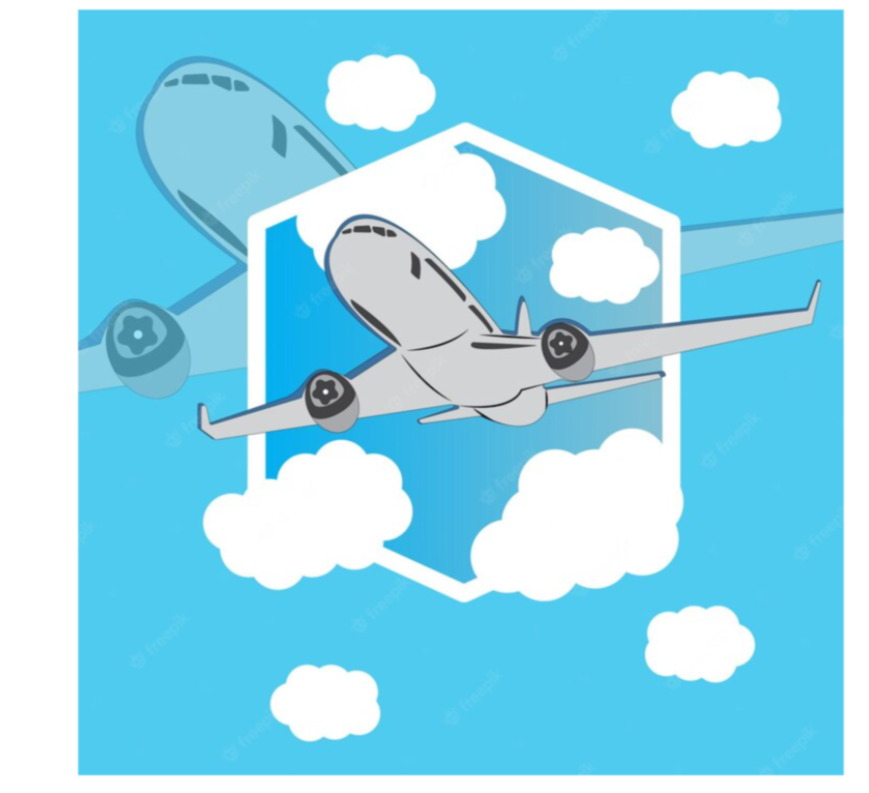
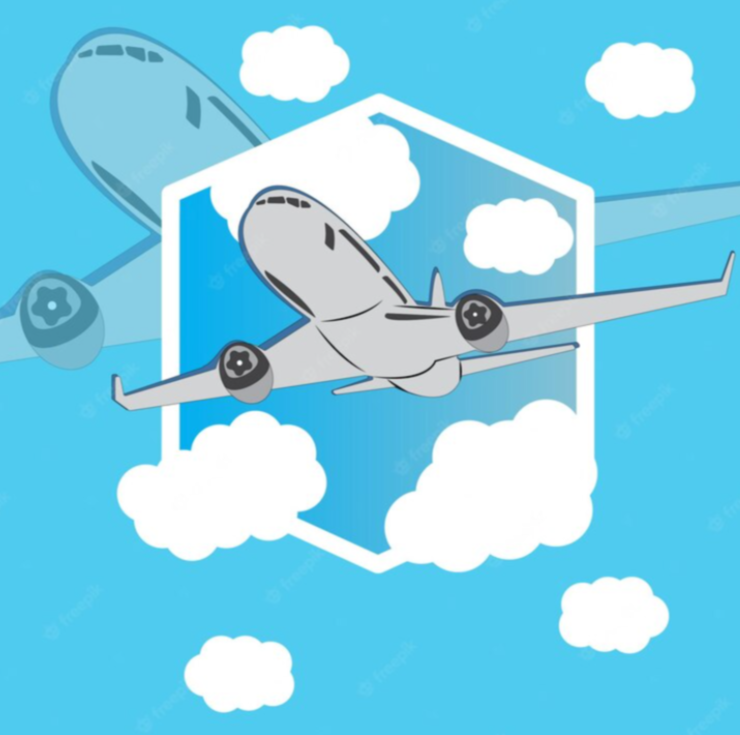
diseño

diff --git a/Vistas/Vendedor.xaml b/Vistas/Vendedor.xaml
@@ -7,9 +7,12 @@
         xmlns:local="clr-namespace:ProyectotTUSBOLETOS.Vistas"
         mc:Ignorable="d"
         Title="Vendedor" Height="450" Width="800">
-    <Grid Background="#FFC1C9C1">
+    <Grid>
+        <Grid.Background>
+            <ImageBrush ImageSource="C:\Users\luzac\source\repos\ProyectotTUSBOLETOS\Img\avion.png" AlignmentY="Top" AlignmentX="Center"/>
+        </Grid.Background>
         <Label x:Name="lblBienvenida" Content="Bienvenido Vendedor" HorizontalAlignment="Left" Margin="180,23,0,0" VerticalAlignment="Top" FontSize="50"/>
-        <DataGrid x:Name="Eventos"  AutoGenerateColumns="False" CanUserAddRows="False" IsReadOnly="True" ColumnWidth="*" IsSynchronizedWithCurrentItem="True" Margin="175,110,52,76" Background="#FFB4BDD6">
+        <DataGrid x:Name="Eventos"  AutoGenerateColumns="False" CanUserAddRows="False" IsReadOnly="True" ColumnWidth="*" IsSynchronizedWithCurrentItem="True" Margin="175,110,52,76" Background="#FF83D4EF">
             <DataGrid.Columns>
                 <DataGridTextColumn Header="Id" Binding="{Binding PkEvento}" />
                 <DataGridTextColumn Header="Nombre" Binding="{Binding Nombre}" />
@@ -32,8 +35,8 @@
         <TextBox x:Name="txtPrecio" HorizontalAlignment="Left" Margin="18,179,0,0" TextWrapping="Wrap" VerticalAlignment="Top" Width="120" IsEnabled="False"/>
         <Label x:Name="lblCantidad" Content="Cantidad" HorizontalAlignment="Left" Margin="18,104,0,0" VerticalAlignment="Top" FontSize="14" FontWeight="Bold"/>
         <Label x:Name="lblPrecio" Content="Precio" HorizontalAlignment="Left" Margin="18,153,0,0" VerticalAlignment="Top" FontWeight="Bold" FontSize="14"/>
-        <Button x:Name="btnCalcular" Content="Calcular" HorizontalAlignment="Left" Margin="10,221,0,0" VerticalAlignment="Top" Width="60" Click="btnCalcular_Click" Background="#FF5BD07B" BorderBrush="#FF2B2A2A" FontWeight="Bold" FontSize="14" Height="28"/>
-        <Button x:Name="btnEmitir" Content="Ordenar" HorizontalAlignment="Left" Margin="81,221,0,0" VerticalAlignment="Top" Width="65" Click="btnEmitir_Click" FontWeight="Bold" FontSize="14" Height="26" BorderBrush="#FF161616" Background="#FF84A8BD"/>
+        <Button x:Name="btnCalcular" Content="Calcular" HorizontalAlignment="Left" Margin="10,221,0,0" VerticalAlignment="Top" Width="60" Click="btnCalcular_Click" Background="#FF367BEB" BorderBrush="#FF2B2A2A" FontWeight="Bold" FontSize="14" Height="28"/>
+        <Button x:Name="btnEmitir" Content="Ordenar" HorizontalAlignment="Left" Margin="81,221,0,0" VerticalAlignment="Top" Width="65" Click="btnEmitir_Click" FontWeight="Bold" FontSize="14" Height="26" BorderBrush="#FF161616" Background="#FF367BEB"/>
         <Button x:Name="back" Content="" HorizontalAlignment="Left" Margin="60,44,0,0" VerticalAlignment="Top" Width="36" Height="35" Click="back_Click" BorderThickness="0,0,0,0">
             <Button.Background>
                 <ImageBrush ImageSource="C:\Users\luzac\source\repos\ProyectotTUSBOLETOS\Img\avi.png"/>

diff --git a/Vistas/Eventos.xaml b/Vistas/Eventos.xaml
@@ -6,7 +6,11 @@
         xmlns:local="clr-namespace:ProyectotTUSBOLETOS.Vistas"
         mc:Ignorable="d"
         Title="Eventos" Height="450" Width="800">
-    <Grid Background="#FF7AD3E1">
+    <Grid>
+        <Grid.Background>
+            <ImageBrush ImageSource="C:\Users\luzac\source\repos\ProyectotTUSBOLETOS\Img\avion.png" AlignmentY="Top" AlignmentX="Center"/>
+        </Grid.Background>
+
         <Label Content="Eventos" HorizontalAlignment="Left" Margin="353,16,0,0" VerticalAlignment="Top" FontSize="50"/>
         <Grid HorizontalAlignment="Left" Margin="10,18,0,69" Width="172">
             <Label Content="Nombre" HorizontalAlignment="Left" Margin="11,39,0,0" VerticalAlignment="Top"/>
@@ -21,7 +25,7 @@
             <Label Content="Fecha" HorizontalAlignment="Left" Margin="16,216,0,0" VerticalAlignment="Top"/>
             <DatePicker x:Name="dateInput" Margin="0,243,10,0" VerticalAlignment="Top"/>
         </Grid>
-        <DataGrid x:Name="EventTable"  AutoGenerateColumns="False" CanUserAddRows="False" IsReadOnly="True" ColumnWidth="*" IsSynchronizedWithCurrentItem="True" Margin="217,112,10,56" Background="#FFC3B7B7">
+        <DataGrid x:Name="EventTable"  AutoGenerateColumns="False" CanUserAddRows="False" IsReadOnly="True" ColumnWidth="*" IsSynchronizedWithCurrentItem="True" Margin="217,112,10,56" Background="#FF83D4EF">
             <DataGrid.Columns>
                 <DataGridTextColumn Header="Id" Binding="{Binding PkEvento}" />
                 <DataGridTextColumn Header="Nombre" Binding="{Binding Nombre}" />
@@ -47,8 +51,8 @@
             </DataGrid.Columns>
 
         </DataGrid>
-        <Button x:Name="btnLimpiar" Content="Limpiar" HorizontalAlignment="Left" Margin="10,363,0,0" VerticalAlignment="Top" Height="30" Width="81" Click="btnLimpiar_Click"/>
-        <Button x:Name="btnAdd" Content="Guardar" HorizontalAlignment="Left" Margin="96,363,0,0" VerticalAlignment="Top" Height="30" Width="86" Click="btnAdd_Click"/>
+        <Button x:Name="btnLimpiar" Content="Limpiar" HorizontalAlignment="Left" Margin="10,363,0,0" VerticalAlignment="Top" Height="30" Width="81" Click="btnLimpiar_Click" Background="#FF367BEB" BorderBrush="#FF141313" BorderThickness="2,2,2,2"/>
+        <Button x:Name="btnAdd" Content="Guardar" HorizontalAlignment="Left" Margin="96,363,0,0" VerticalAlignment="Top" Height="30" Width="86" Click="btnAdd_Click" Background="#FF367BEB" BorderBrush="#FF0E0E0E" BorderThickness="2,2,2,1"/>
         <Button x:Name="back" Content="" HorizontalAlignment="Left" Margin="182,10,0,0" VerticalAlignment="Top" Width="35" Height="35" Click="back_Click" BorderBrush="#FFAFF4D9" BorderThickness="0,0,0,0">
             <Button.Background>
                 <ImageBrush ImageSource="C:\Users\luzac\source\repos\ProyectotTUSBOLETOS\Img\avi.png"/>

diff --git a/Vistas/Ventas.xaml b/Vistas/Ventas.xaml
@@ -9,12 +9,15 @@
         Title="Ventas" Height="450" Width="800">
 
     <Grid>
-        <Button x:Name="back" Content="" HorizontalAlignment="Left" Margin="10,10,0,0" VerticalAlignment="Top" Width="54" Height="34" Click="back_Click" BorderBrush="{x:Null}">
+        <Grid.Background>
+            <ImageBrush ImageSource="C:\Users\luzac\source\repos\ProyectotTUSBOLETOS\Img\avion.png" AlignmentY="Top" AlignmentX="Center"/>
+        </Grid.Background>
+        <Button x:Name="back" Content="" HorizontalAlignment="Left" Margin="10,10,0,0" VerticalAlignment="Top" Width="35" Height="35" Click="back_Click" BorderBrush="{x:Null}">
             <Button.Background>
-                <ImageBrush ImageSource="C:\Users\luzac\source\repos\ProyectotTUSBOLETOS\Img\izquierda.png"/>
+                <ImageBrush ImageSource="C:\Users\luzac\source\repos\ProyectotTUSBOLETOS\Img\avi.png"/>
             </Button.Background>
         </Button>
-        <DataGrid x:Name="Eventos"  AutoGenerateColumns="False" CanUserAddRows="False" IsReadOnly="True" ColumnWidth="*" IsSynchronizedWithCurrentItem="True" Margin="10,49,10,137" Background="#FFB4BDD6">
+        <DataGrid x:Name="Eventos"  AutoGenerateColumns="False" CanUserAddRows="False" IsReadOnly="True" ColumnWidth="*" IsSynchronizedWithCurrentItem="True" Margin="10,49,10,137" Background="#FF83D4EF">
             <DataGrid.Columns>
                 <DataGridTextColumn Header="PkVenta" Binding="{Binding PkVenta}" />
                 <DataGridTextColumn Header="Cantidad" Binding="{Binding Cantidad}" />
@@ -26,7 +29,7 @@
             </DataGrid.Columns>
 
         </DataGrid>
-        <Grid Background="AntiqueWhite" Margin="10,302,10,10">
+        <Grid Background="#FF358FAE" Margin="10,302,10,10">
             <Label Content="Total Vendido:" HorizontalAlignment="Left" Margin="255,0,0,0" VerticalAlignment="Center" FontSize="20"/>
             <Label Content="$" HorizontalAlignment="Left" Margin="395,0,0,0" VerticalAlignment="Center" FontSize="20"/>
             <Label x:Name="lblTotal" Content="Label" HorizontalAlignment="Left" Margin="416,0,0,0" VerticalAlignment="Center" FontSize="20"/>

diff --git a/Vistas/Sistema.xaml b/Vistas/Sistema.xaml
@@ -22,9 +22,9 @@
         <TextBox x:Name="txtUserName" HorizontalAlignment="Left" Height="25" Margin="50,46,0,0" TextWrapping="Wrap" VerticalAlignment="Top" Width="102" Grid.Row="1"/>
         <Label Content="Password" HorizontalAlignment="Left" Height="26" Margin="50,71,0,0" VerticalAlignment="Top" Width="102" FontFamily="Arial Black" Grid.Row="1"/>
         <TextBox x:Name="txtPassword" HorizontalAlignment="Left" Height="24" Margin="50,97,0,0" TextWrapping="Wrap" VerticalAlignment="Top" Width="102" Grid.Row="1"/>
-        <Button x:Name="BtnAdd" Content="Guardar" HorizontalAlignment="Left" Height="23" Margin="67,202,0,0" VerticalAlignment="Top" Width="68" Background="#FF61D7E8" Click="BtnAdd_Click" FontFamily="Arial Black" Grid.Row="1"/>
+        <Button x:Name="BtnAdd" Content="Guardar" HorizontalAlignment="Left" Height="23" Margin="67,202,0,0" VerticalAlignment="Top" Width="68" Background="#FF367BEB" Click="BtnAdd_Click" FontFamily="Arial Black" Grid.Row="1" BorderBrush="#FF1F1E1E" BorderThickness="2,2,2,2"/>
 
-        <DataGrid x:Name="UserTable"  AutoGenerateColumns="False" CanUserAddRows="False" IsReadOnly="True" ColumnWidth="*" IsSynchronizedWithCurrentItem="True" Margin="175,110,52,76" Grid.RowSpan="2">
+        <DataGrid x:Name="UserTable"  AutoGenerateColumns="False" CanUserAddRows="False" IsReadOnly="True" ColumnWidth="*" IsSynchronizedWithCurrentItem="True" Margin="175,110,52,76" Grid.RowSpan="2" Background="#FF83D4EF" Foreground="Black">
             <DataGrid.Columns>
                 <DataGridTextColumn Header="Id" Binding="{Binding PkUsuario}" />
                 <DataGridTextColumn Header="Nombre" Binding="{Binding Nombre}" />
